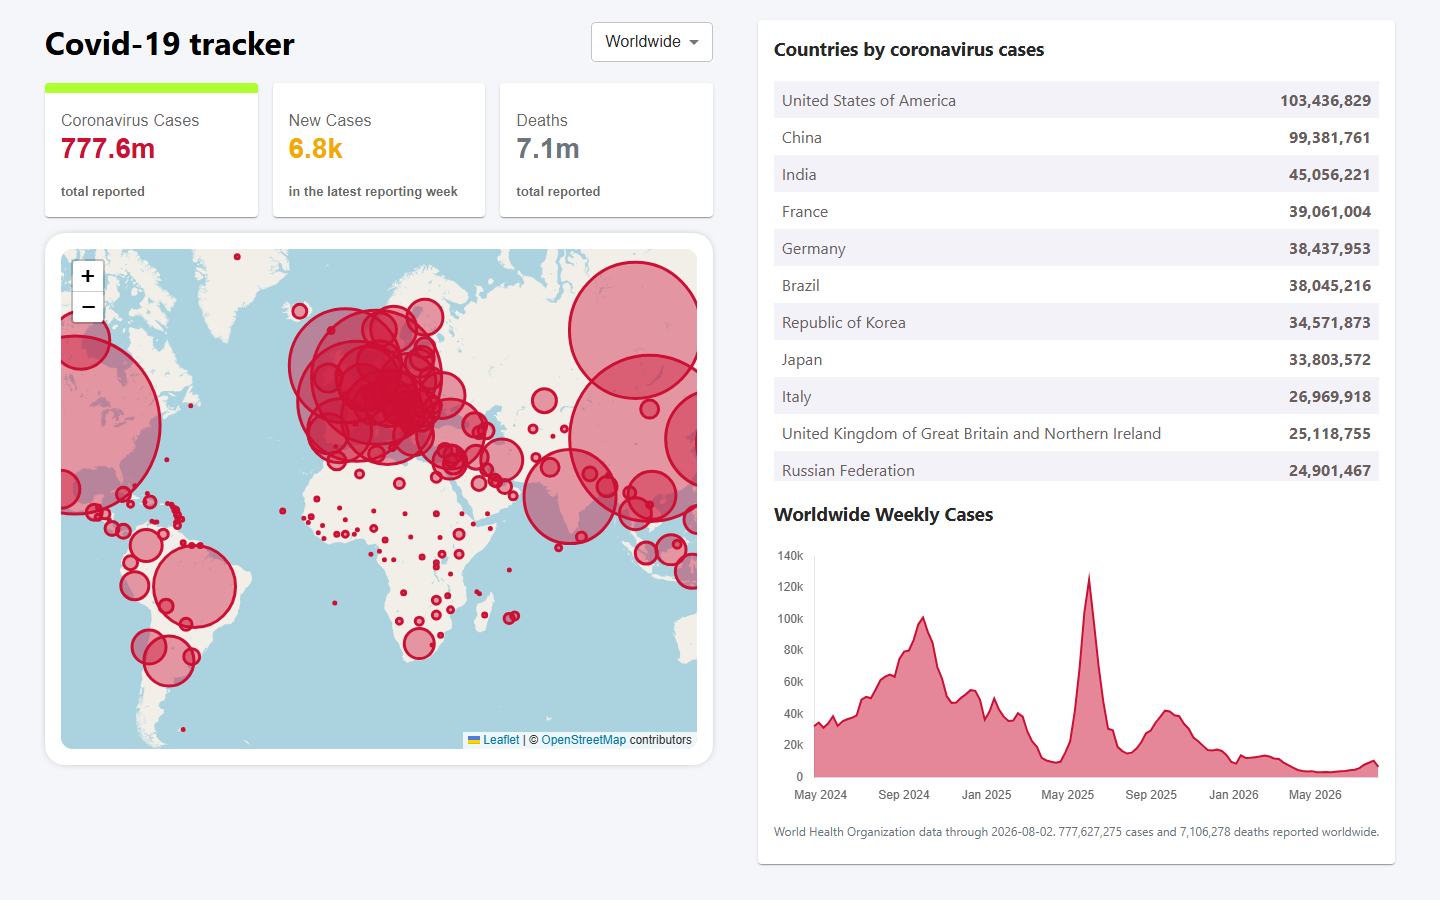
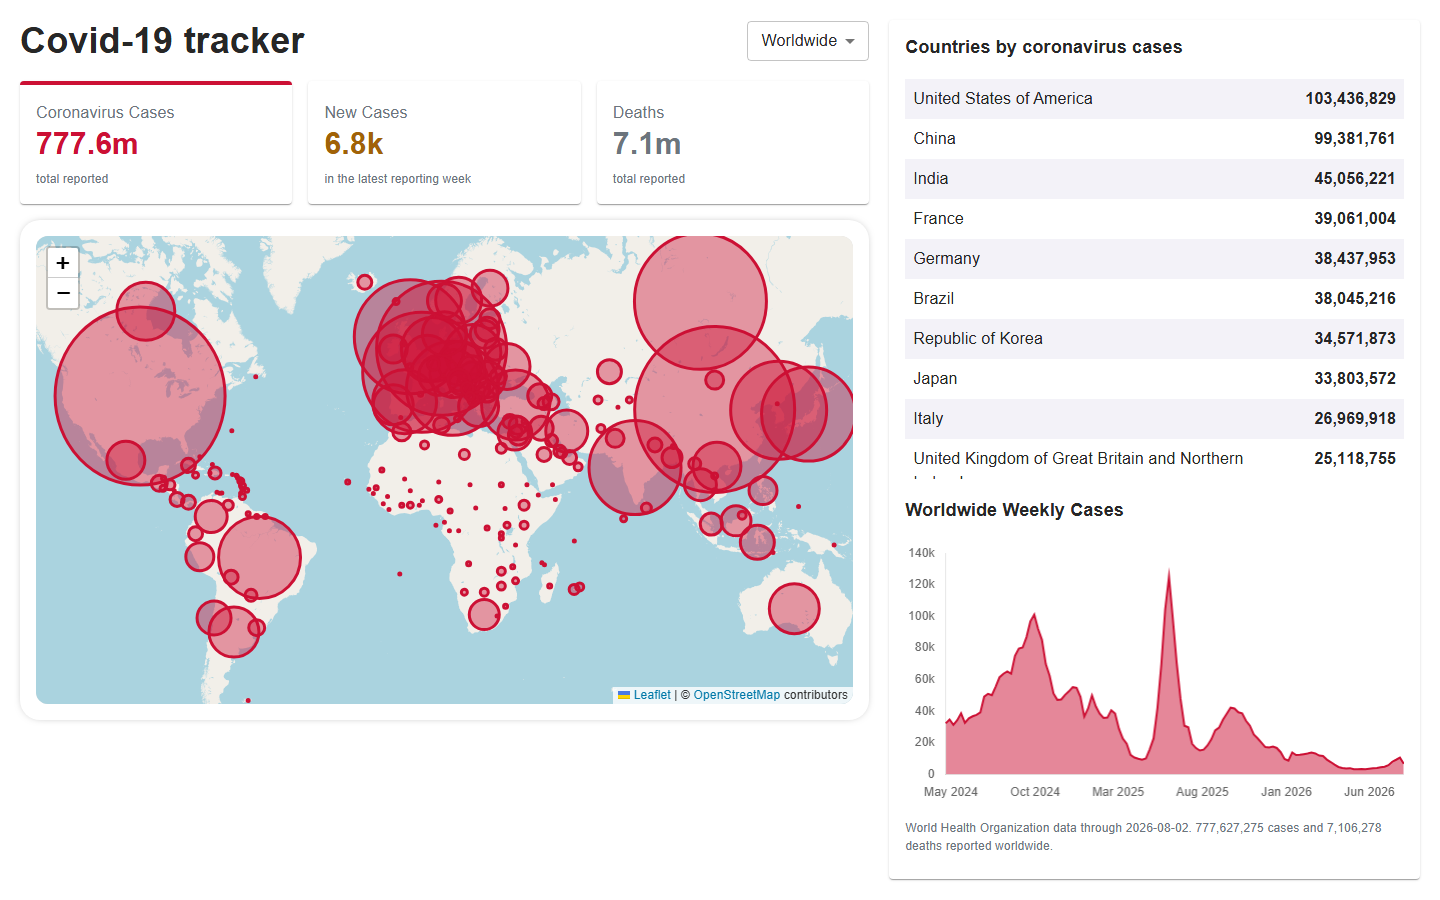
docs: record the 1.2.0 changes and refresh stale documentation
Ten commits had landed since v1.1.0 with no changelog entry and no
release, so the published history stopped short of the quality pass, the
branch rename, the release automation and the Node version fix.

Also corrects documentation that the work itself had made stale:

- the README still required Node 20.19+, which this project stopped
  supporting an hour earlier, and described a CI matrix that no longer
  exists
- the coverage figure quoted 99.6%; the refactor moved it to 99.4%
- jsconfig.json was added by the quality pass but never documented
- screenshot.png predated the quality pass, so it showed the old layout
  and the amber that failed contrast

The Node 20 reference inside the v1.1.0 entry is deliberately left alone:
a changelog records what was true at that release, and editing history to
match the present defeats the point of keeping one.

diff --git a/CHANGELOG.md b/CHANGELOG.md
@@ -4,6 +4,74 @@ All notable changes to this project are documented here.
 The format follows [Keep a Changelog](https://keepachangelog.com/en/1.1.0/)
 and this project adheres to [Semantic Versioning](https://semver.org/spec/v2.0.0.html).
 
+## [1.2.0] - 2026-08-25
+
+A quality pass over structure, styling, types and documentation, plus the
+release and branch tidying that followed.
+
+### Fixed
+
+- **The "New Cases" figure failed WCAG AA.** The amber used for it sat at
+  2.01:1 against the card, below even the 3.0 threshold that large text is
+  allowed. It is now `#a16207` at 4.92:1, chosen to stay distinguishable from
+  the other two metrics on the map. A test now computes the contrast of every
+  metric colour and fails below 4.5:1.
+- **A country returned without a `countryInfo` object threw** while the dropdown
+  was built, taking the list, table and map down with it. The map filter beside
+  it already guarded this case.
+- **The stat figure was marked up as an `<h2>`**, so screen-reader heading
+  navigation announced a bare number with no context, from inside a button.
+- **Long country names were clipped.** "United Kingdom of Great Britain and
+  Northern Ireland" pushed the figure out of its row.
+- Three defects found by turning on type checking: the changelog script still
+  carried a fragile entry-point guard because an earlier edit had silently
+  failed; an `exact: true` option was passed to Testing Library's `findByRole`,
+  which is not part of its API and was being ignored; and `@types/leaflet` was
+  missing, so react-leaflet prop types were degrading to empty and validating
+  nothing.
+
+### Changed
+
+- **Design tokens.** Colours, spacing and radii moved into
+  `src/styles/tokens.css`; no component stylesheet contains a hex literal any
+  more. A test parses the stylesheet to prove the JavaScript palette, needed by
+  Leaflet and Chart.js, never drifts from it.
+- **Dark mode** follows `prefers-color-scheme`. The metric colours are declared
+  twice deliberately: no single colour can meet 4.5:1 against both white and a
+  dark surface, because the luminance ranges required do not overlap.
+- `util.js` was a grab-bag of metric config, formatting, geometry and chart
+  transformation; it split into `lib/metrics.js`, `lib/format.js` and
+  `lib/chart.js`. Fetching moved out of `App` into a `useSnapshot` hook.
+- Component styles moved out of `App.css` and beside their components; `body` is
+  styled in one file rather than two; a dead Create React App `code` rule is
+  gone; `* { margin: 0 }` became a targeted reset; there is a real
+  `:focus-visible` ring; and the single 990px breakpoint became three, so tablet
+  widths no longer get the cramped desktop grid.
+- **CI now runs on Node 22 and 24.** It previously ran on Node 20, which reached
+  end of life on 2026-04-30 and no longer receives security patches. Node 24 is
+  what the project is developed on and nothing had been testing it.
+- The page description advertised recoveries, which no longer exist, and a
+  "120-day" chart that is now 120 weeks.
+
+### Added
+
+- **JSDoc type checking** via `jsconfig.json` and `npm run typecheck`, wired into
+  CI. No conversion to TypeScript.
+- **Release automation**: `scripts/changelog-section.mjs` extracts a version's
+  notes and `.github/workflows/release.yml` publishes them, so release notes are
+  read from this file rather than retyped.
+- `.gitattributes` normalising line endings, which otherwise depended on each
+  contributor's `core.autocrlf` and could break the shell blocks in workflows on
+  Linux runners.
+- Documentation for the three workflows, and `docs/data-source.md` recording why
+  the data is built rather than fetched.
+
+### Notes
+
+- The default branch was renamed from `master` to `main`.
+- The weekly data refresh ran unattended for the first time on 2026-08-24 and
+  committed the WHO snapshot on its own.
+
 ## [1.1.0] - 2026-08-24
 
 ### Changed
@@ -138,5 +206,6 @@ defect found in the audit of the initial commit.
 - `npm audit --omit=dev` reports **0 vulnerabilities**, down from the many
   advisories carried by the `react-scripts` 4 dependency tree.
 
+[1.2.0]: https://github.com/imnishant2512/Covid19-tracker/releases/tag/v1.2.0
 [1.1.0]: https://github.com/imnishant2512/Covid19-tracker/releases/tag/v1.1.0
 [1.0.0]: https://github.com/imnishant2512/Covid19-tracker/releases/tag/v1.0.0

diff --git a/README.md b/README.md
@@ -14,7 +14,7 @@ Deployed live at https://covid19-tracker-c92c2.web.app/
 
 ## Getting started
 
-Requires Node 20.19+ or 22.12+ (Vite 7).
+Requires Node 22.12+ (Node 20 reached end of life in April 2026).
 
 ```bash
 npm install
@@ -51,8 +51,9 @@ npx playwright install chromium
 ```
 index.html            Vite entry point
 vite.config.js        Build + Vitest config
+jsconfig.json         JSDoc type checking (tsc --noEmit)
 .github/workflows/
-  ci.yml              Lint, typecheck, test and build on Node 20 and 22
+  ci.yml              Lint, typecheck, test and build on Node 22 and 24
   refresh-data.yml    Weekly WHO refresh; commits only when figures change
   release.yml         Publishes a GitHub release from CHANGELOG.md on a v* tag
 docs/
@@ -95,7 +96,7 @@ Two layers:
 
 - **Unit and component** (Vitest + Testing Library) covers the helpers, the API
   client and every component, with a regression test for each bug listed in the
-  changelog. CI enforces 85% coverage; the suite currently sits at 99.6%
+  changelog. CI enforces 85% coverage; the suite currently sits at 99.4%
   statements.
 - **End-to-end** (Playwright) drives the real production bundle in Chromium,
   because jsdom cannot prove that Leaflet paints, that Chart.js reaches a
